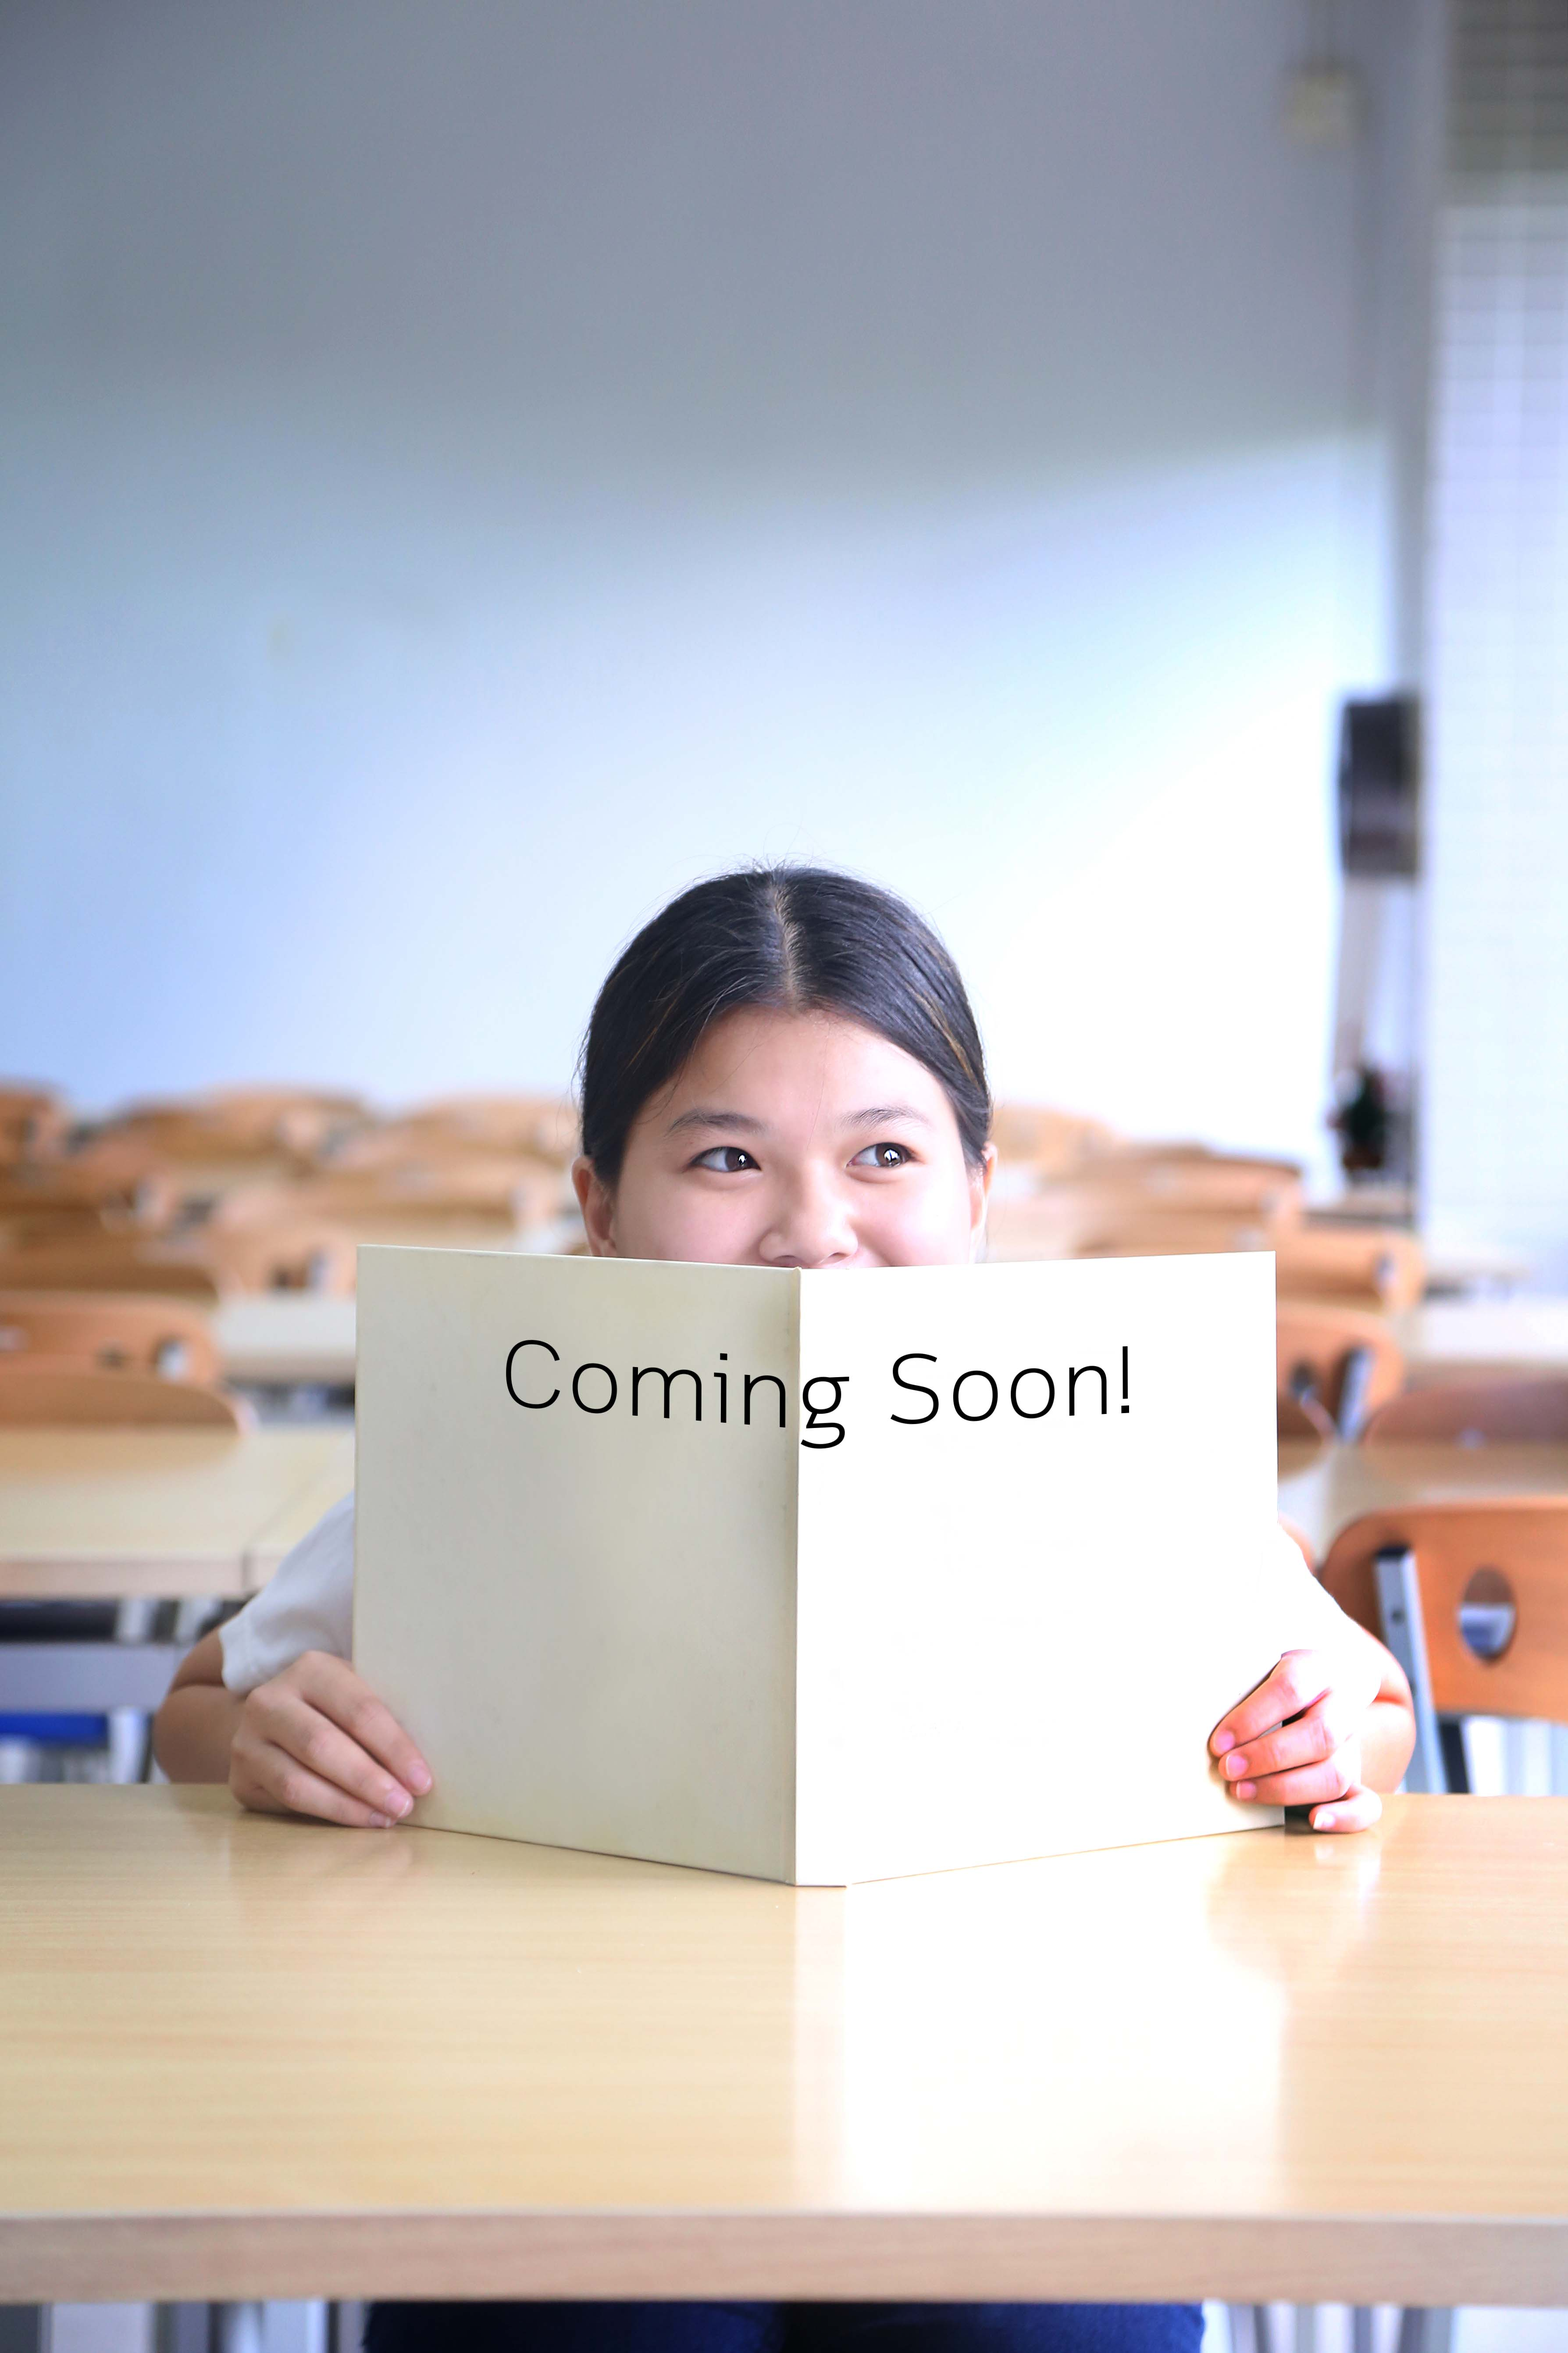
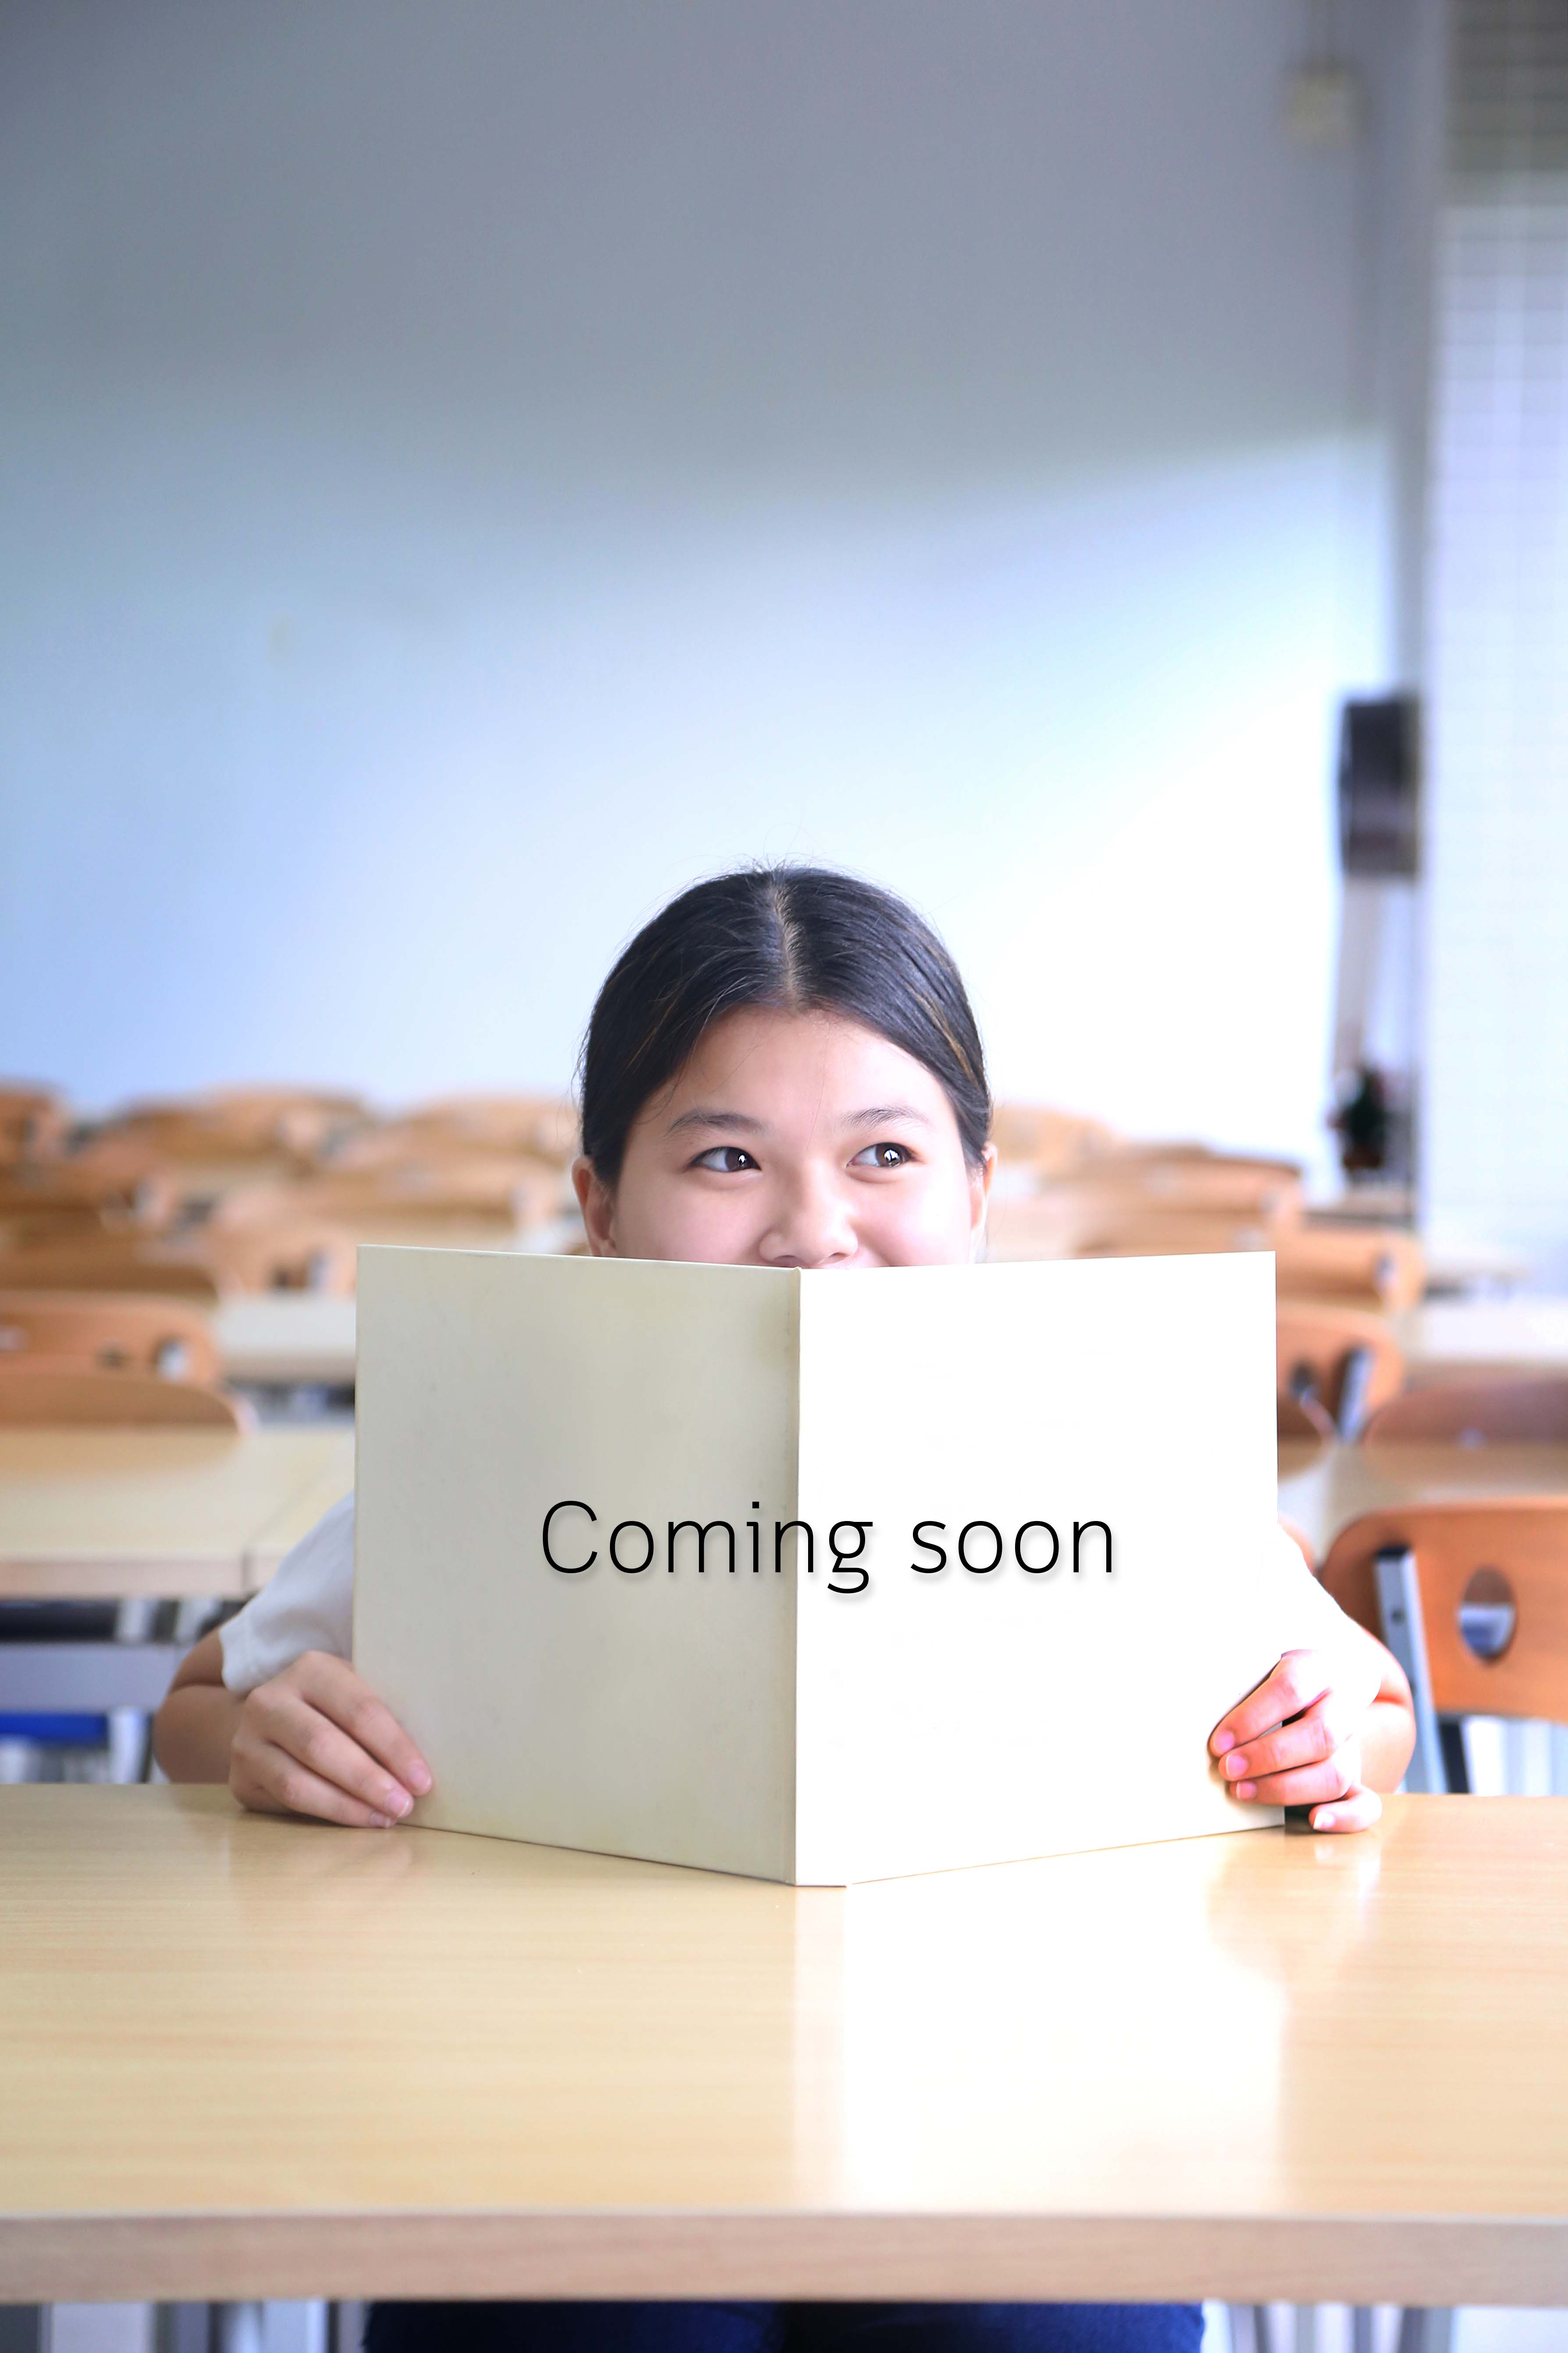
fuckios

diff --git a/public/assets/css/main.css b/public/assets/css/main.css
@@ -15,7 +15,7 @@
     bottom: 30%;
 }
 .soon {
-    background-image: url("../image/soon.jpg");
+    background-image: url("../image/soon1.jpg");
     background-size: cover;
     background-position: center center;
     background-attachment: fixed;
@@ -27,6 +27,12 @@
     -webkit-box-direction: normal;
     -ms-flex-direction: column;
     flex-direction: column;
+}
+#fuckios {
+    display:none;justify-content:center;align-items:center;width:100%;height:100%;
+}
+#fuckios img {
+    width:100%;
 }
 .regis-body {
     background-image: url("../image/poster_hor.jpg");

diff --git a/resources/views/soon.blade.php b/resources/views/soon.blade.php
@@ -109,7 +109,11 @@
     </div><!-- /.container-fluid -->
 </nav>
 
-<div class="main">
+<div id="fuckios">
+    <img src="{{URL::asset('assets/image/soon.jpg')}}" alt="">
+</div>
+
+<div class="main" style="margin-bottom: 0">
 </div>
 
 <footer>
@@ -128,5 +132,14 @@
 
 <script src="https://ajax.googleapis.com/ajax/libs/jquery/1.11.3/jquery.min.js"></script>
 <script src="{{URL::asset('assets/js/bootstrap.min.js')}}"></script>
+
+<script>
+    $(window).on('resize', function() {
+        if ($(window).height() > $(window).width()) {
+            $("#fuckios").attr('style', 'display: -webkit-flex; display: flex');
+            document.body.style.backgroundImage = "none";
+        }
+    });
+</script>
 </body>
 </html>
